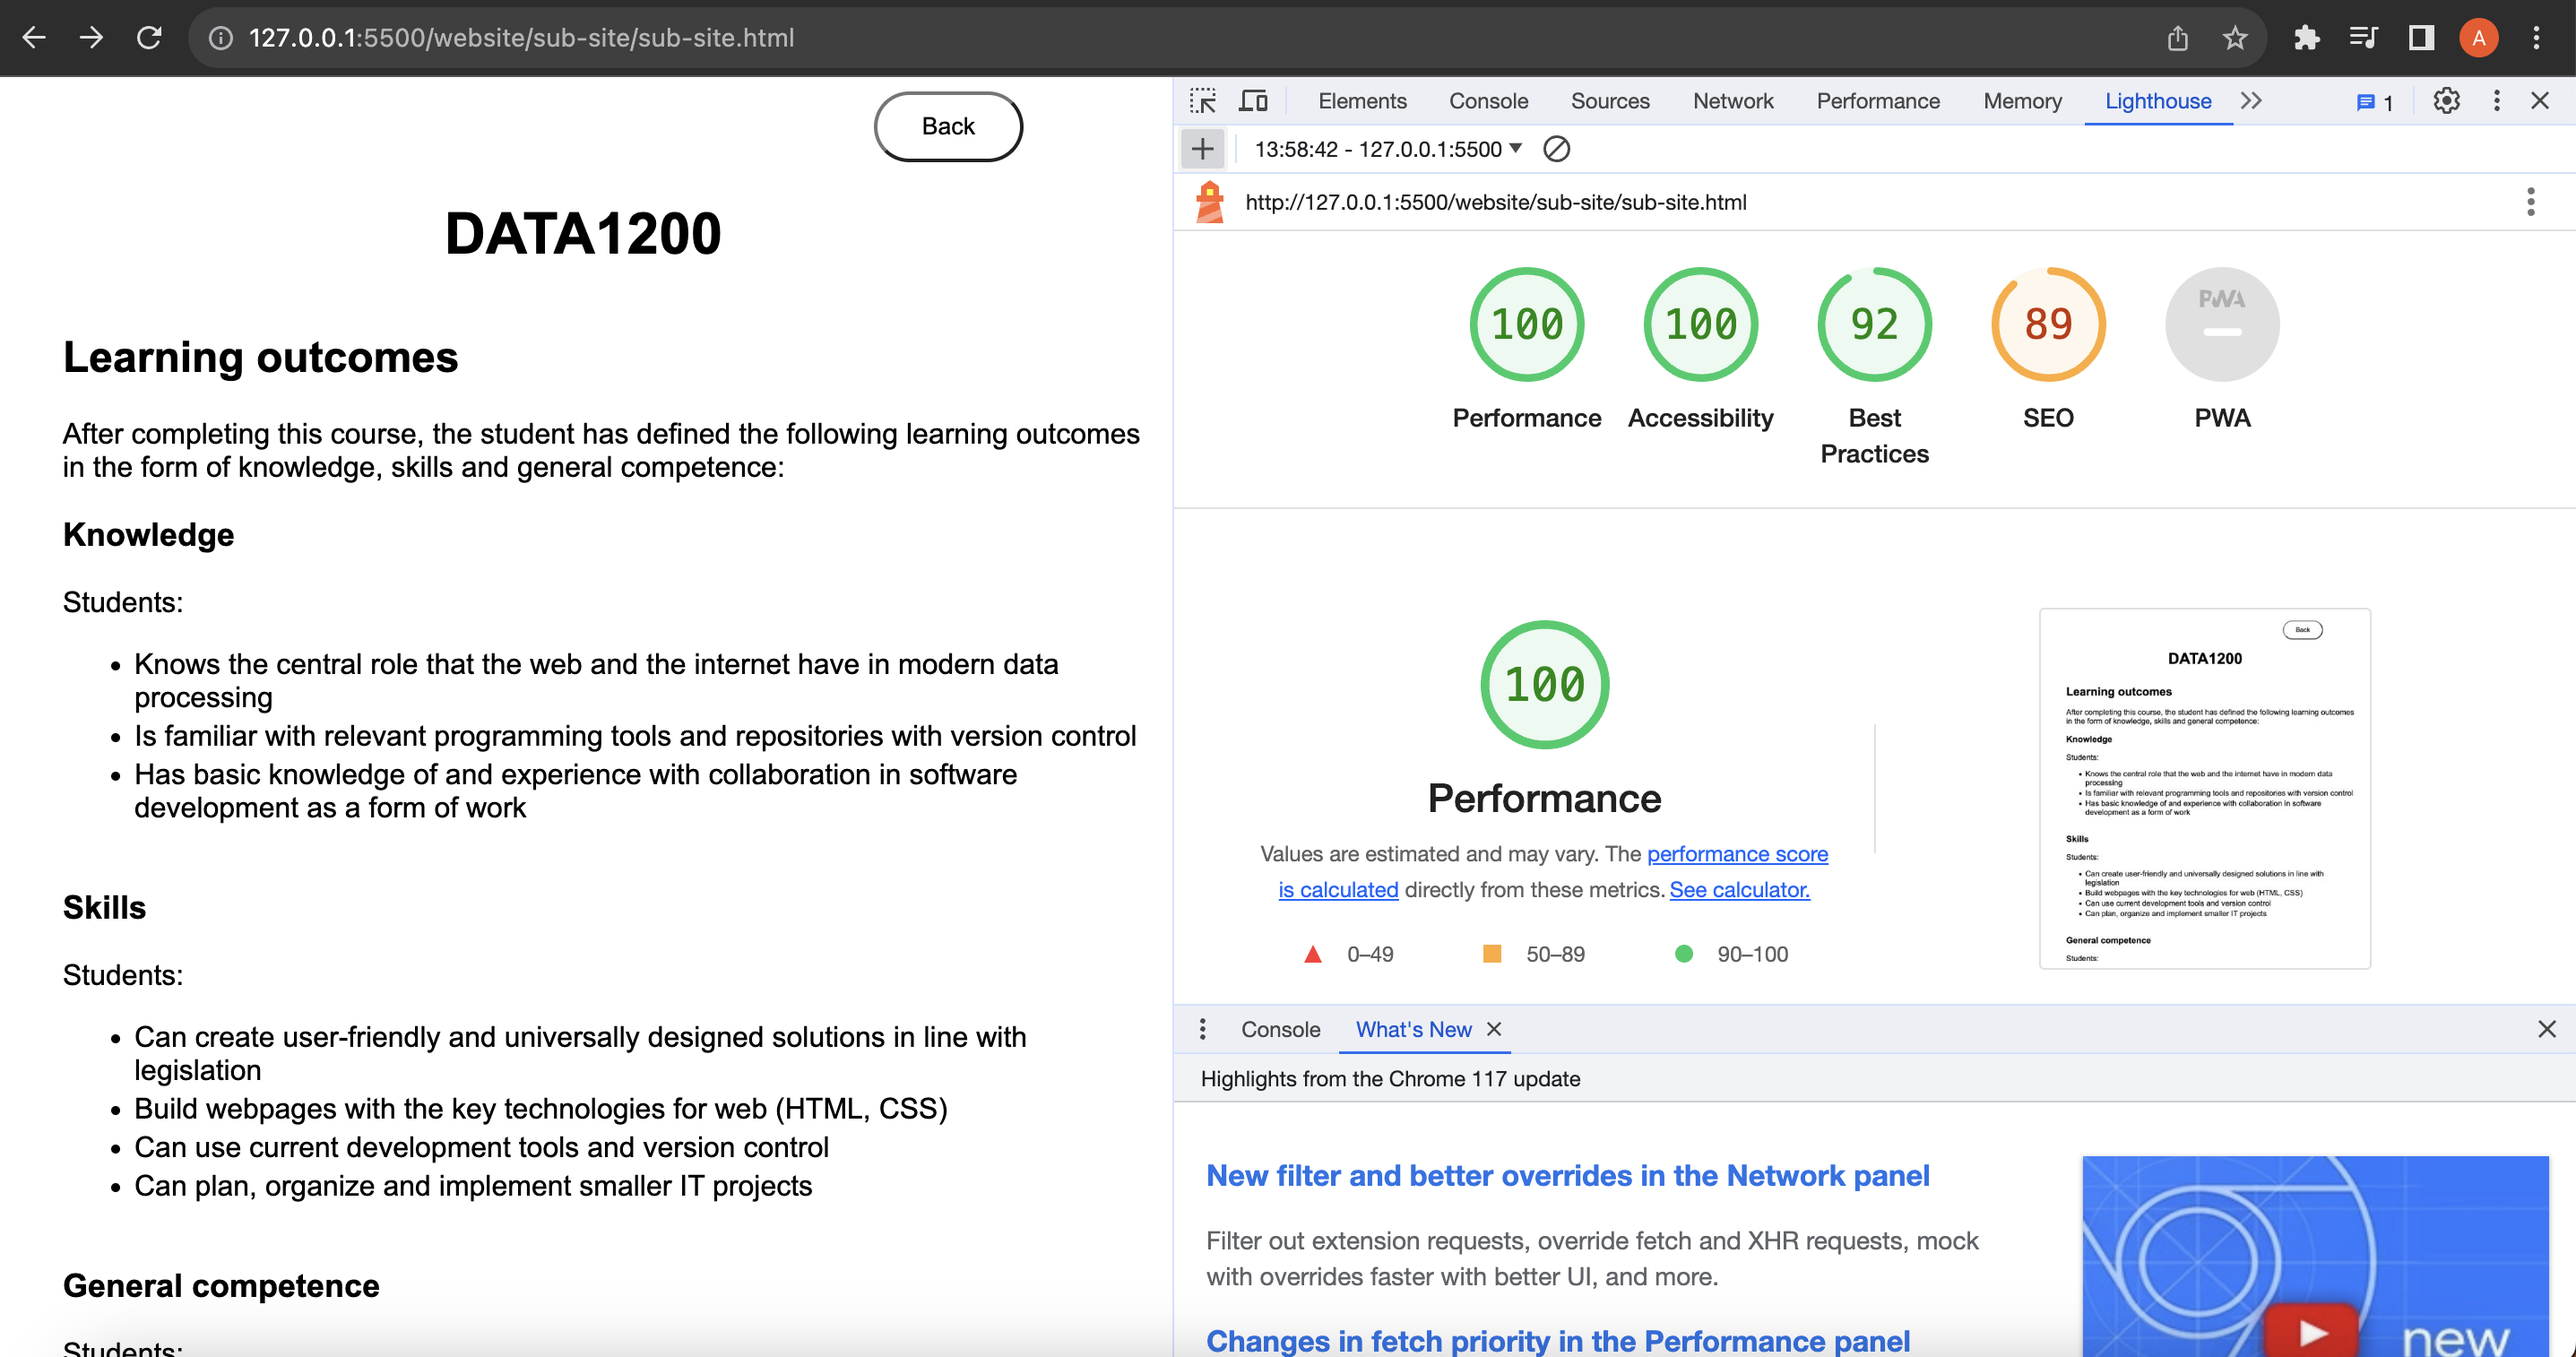
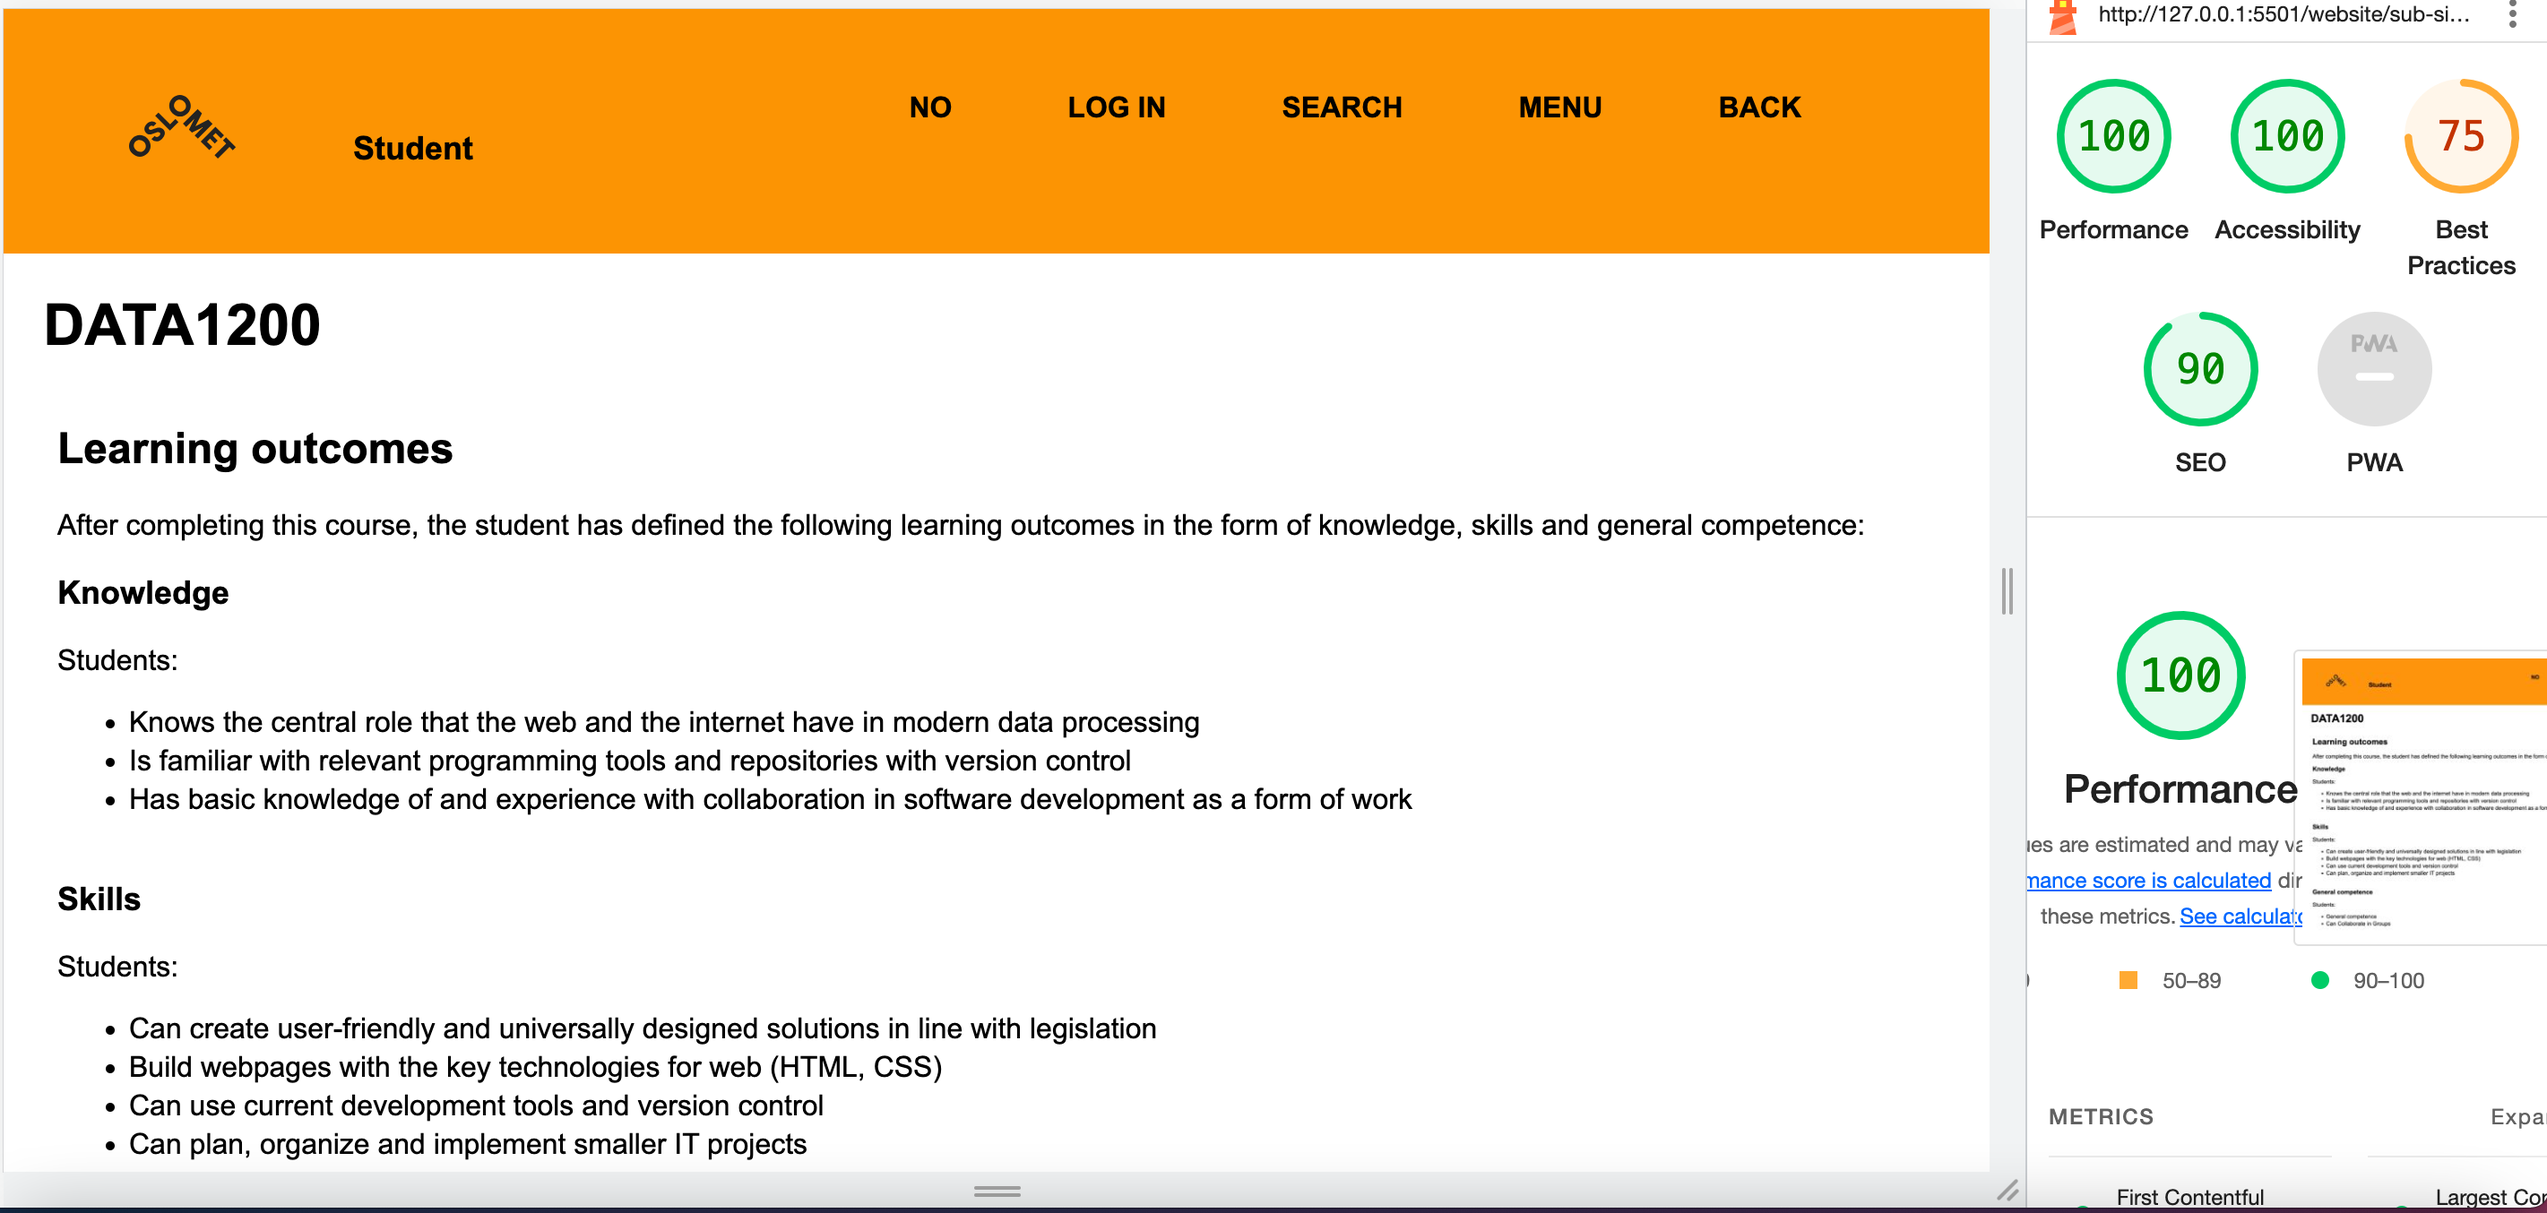
mange fixes etter tilbakemelding fra TA

diff --git a/website/index.html b/website/index.html
@@ -12,7 +12,7 @@
 <body>
     <header>
         <nav class="NavbarMainpage">
-            <img id="logo" src="media/rassi-technica-high-resolution-logo.png" alt="">
+            <img id="logo" src="media/rassi-technica-high-resolution-logo.png" alt="Logo for Rassi Technica website">
             <a href="index.html">Sign in</a>
             <a href="index.html">Shop</a>
             <a href="index.html">News</a>
@@ -21,13 +21,13 @@
         </nav>
     </header>
 
-    <div class="front-page-container">
-    <main class="web-body"> 
+    <main class="front-page-container">
+    <div class="web-body"> 
         <h1 class="website-h1">Emperor Rassi</h1>
         <h2>How Rassi overcame the Greeks</h2>
         <p class="web-author">Written by: Magnus Evenstad - 13.09.23</p>
-        <img id="Tigerbilde" src="media/syktnicebilde.png" alt="A young king in ornate attire sits beside a roaring tiger in a grand hall">
-        <p class="web-author">Photograph: Maguire</p>
+        <img id="Tigerbilde" src="media/syktnicebilde.png" alt="A young king in ornate attire sits beside a roaring tiger in a grand hall"> <!-- Image created by AI; Stable Diffusion Web UI. Not published on the internet  -->
+        <p class="web-author">Picture generated by AI Stable Diffusion Model</p>
         <hr>
         <h3>Leader of the people</h3>
             <p>
@@ -51,9 +51,10 @@
         </p>
         <hr>
         <h3>Author</h3>
-        <img id="author" src="media/Author.png" alt="Headshot of Magnus Evenstad, smiling"> 
-        <p id="author_text">Magnus Evenstad has been a part of the literary community for over a decade, bringing with him a passion for storytelling and a dedication to the written word. With a background in English literature and a voracious appetite for reading, Magnus' critique and prose have delighted readers across various genres.</p>
-        </main>
+        <img id="author" src="media/Author.png" alt="Headshot of Magnus Evenstad, smiling"> <!-- Private photo Taken by Rasmus Thorkildsen. Not published on the internet -->
+        <p id="author_text">Magnus Evenstad has been a part of the literary community for over a decade, bringing with him a passion for storytelling and a dedication to the written word. With a background in English literature and a voracious appetite for reading, Magnus' critique and prose have delighted readers across various genres</p>
+        <p class="web-author">Private picture taken by Rasmus Thorkildsen</p>
     </div>
+</main>
 </body>
 </html>

diff --git a/website/sub-site/sub-site.html b/website/sub-site/sub-site.html
@@ -49,9 +49,10 @@
                 <li>General competence</li>
                 <li>Can Collaborate in Groups</li>
             </ul>
+            <h3>LightHouse accessibility test results</h3>
+            <img id="ScreenshotPage1" src="../media/Skjermbilde 2023-10-02 kl. 13.59.28.png" alt="Screenshot of Light-house Accessibility test results Page2" width="50%" height="50%"/> <!-- Screenshot of the Lightroom accessibility test on Page 1. -->
+            <img id="Screenshotpage2" src="../media/Skjermbilde 2023-10-02 kl. 14.00.34.png" alt="Screenshot of Light-house Accessibility test results Page1" width="50%" height="50%"> <!-- Screenshot of the Lightroom accessibility test on Page 1. -->
         </main>
-        <img src="../media/Skjermbilde 2023-10-02 kl. 13.59.28.png" alt="Skjermbilde1" width="50%" height="50%"/>
-        <img src="../media/Skjermbilde 2023-10-02 kl. 14.00.34.png" alt="Skjermbilde2" width="50%" height="50%">
     </body>
     <footer class="email-list">
         <ul>

diff --git a/website/css/stylesheet.css b/website/css/stylesheet.css
@@ -3,6 +3,10 @@
     font-size: 15px;
 }
 
+html, body{
+    margin: 0%;
+}
+
 .front-page-container{
     background-color: gray;
 }
@@ -35,7 +39,8 @@
 }
 
 #author_text {
-padding-left: 20%;
+padding-left: 12%;
+padding-top: 1%;
 }
 
 .NavbarMainpage {
@@ -79,7 +84,7 @@ padding-left: 20%;
 }
 
 .sub-site h1 {
-    text-align: center;
+    padding-left: 2%;
     padding-bottom: 15px;
 }
 
@@ -142,7 +147,7 @@ padding-left: 20%;
 .sub-site nav{
     text-align: right;
     padding: 0;  
-    background-color: #b95000;
+    background-color:	rgb(252, 148, 3);
     overflow: hidden;
     text-align: right;
     padding: 15px 75px 0px 0px;
@@ -196,4 +201,12 @@ padding-left: 20%;
     .navbar-list-right a{
         color: black;
         text-decoration: none;
+    }
+
+    #ScreenshotPage1{
+        min-width: 500px;
+    }
+
+    #ScreenshotPage2{
+        min-width: 500px;
     }
